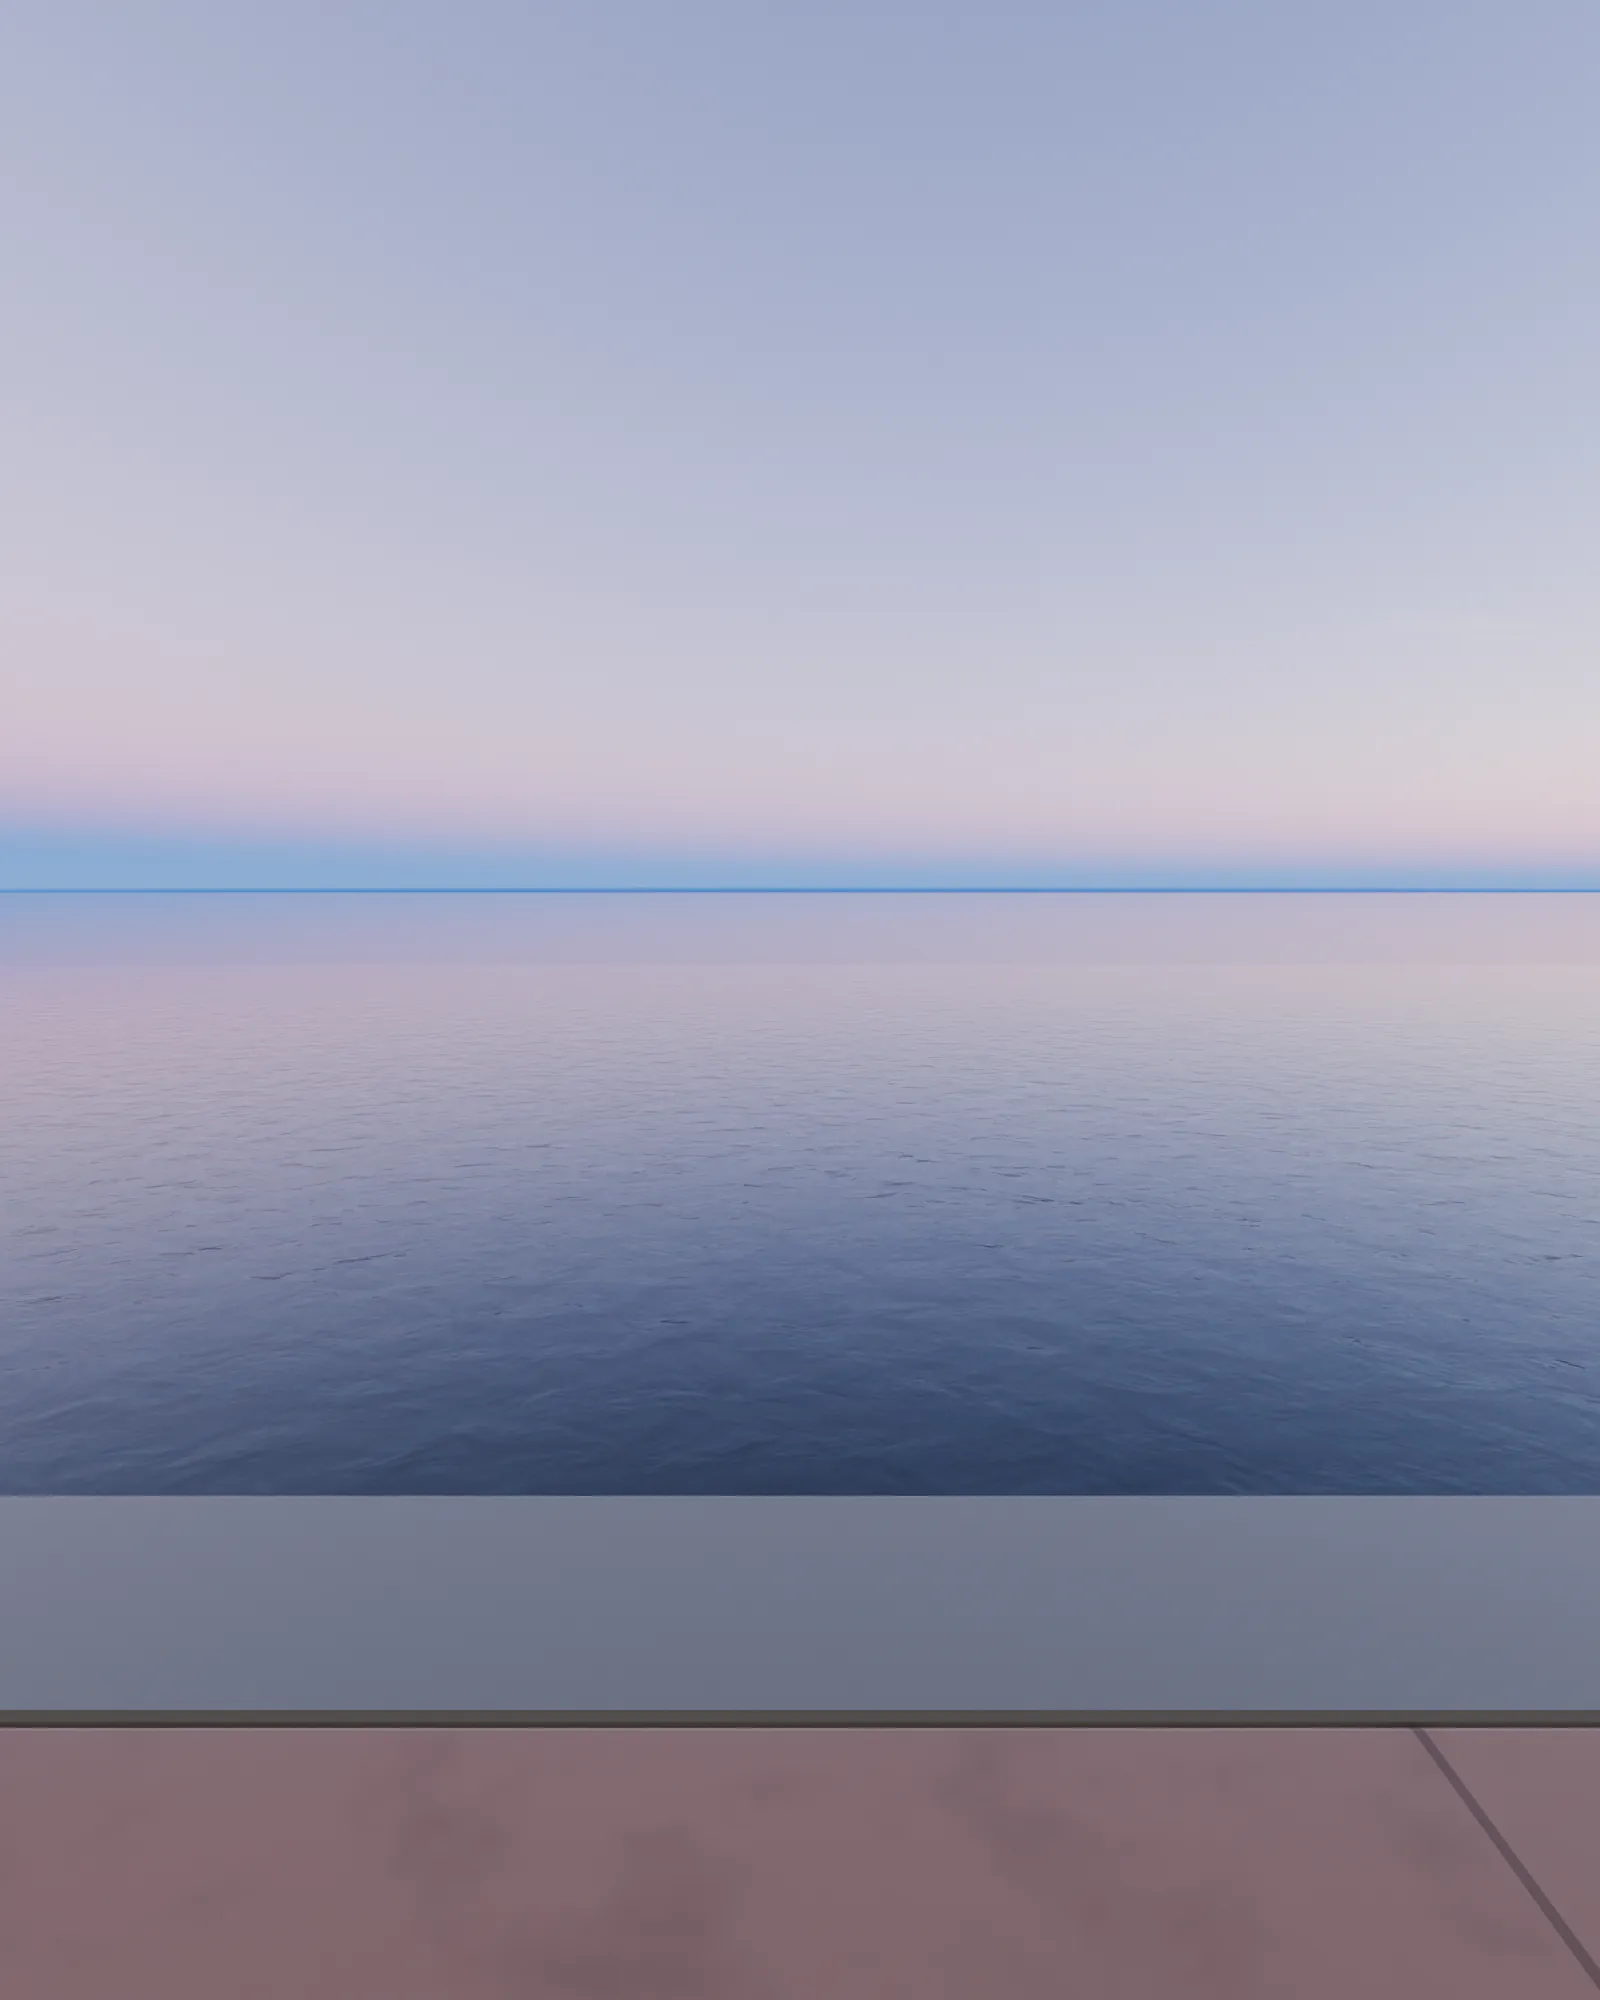
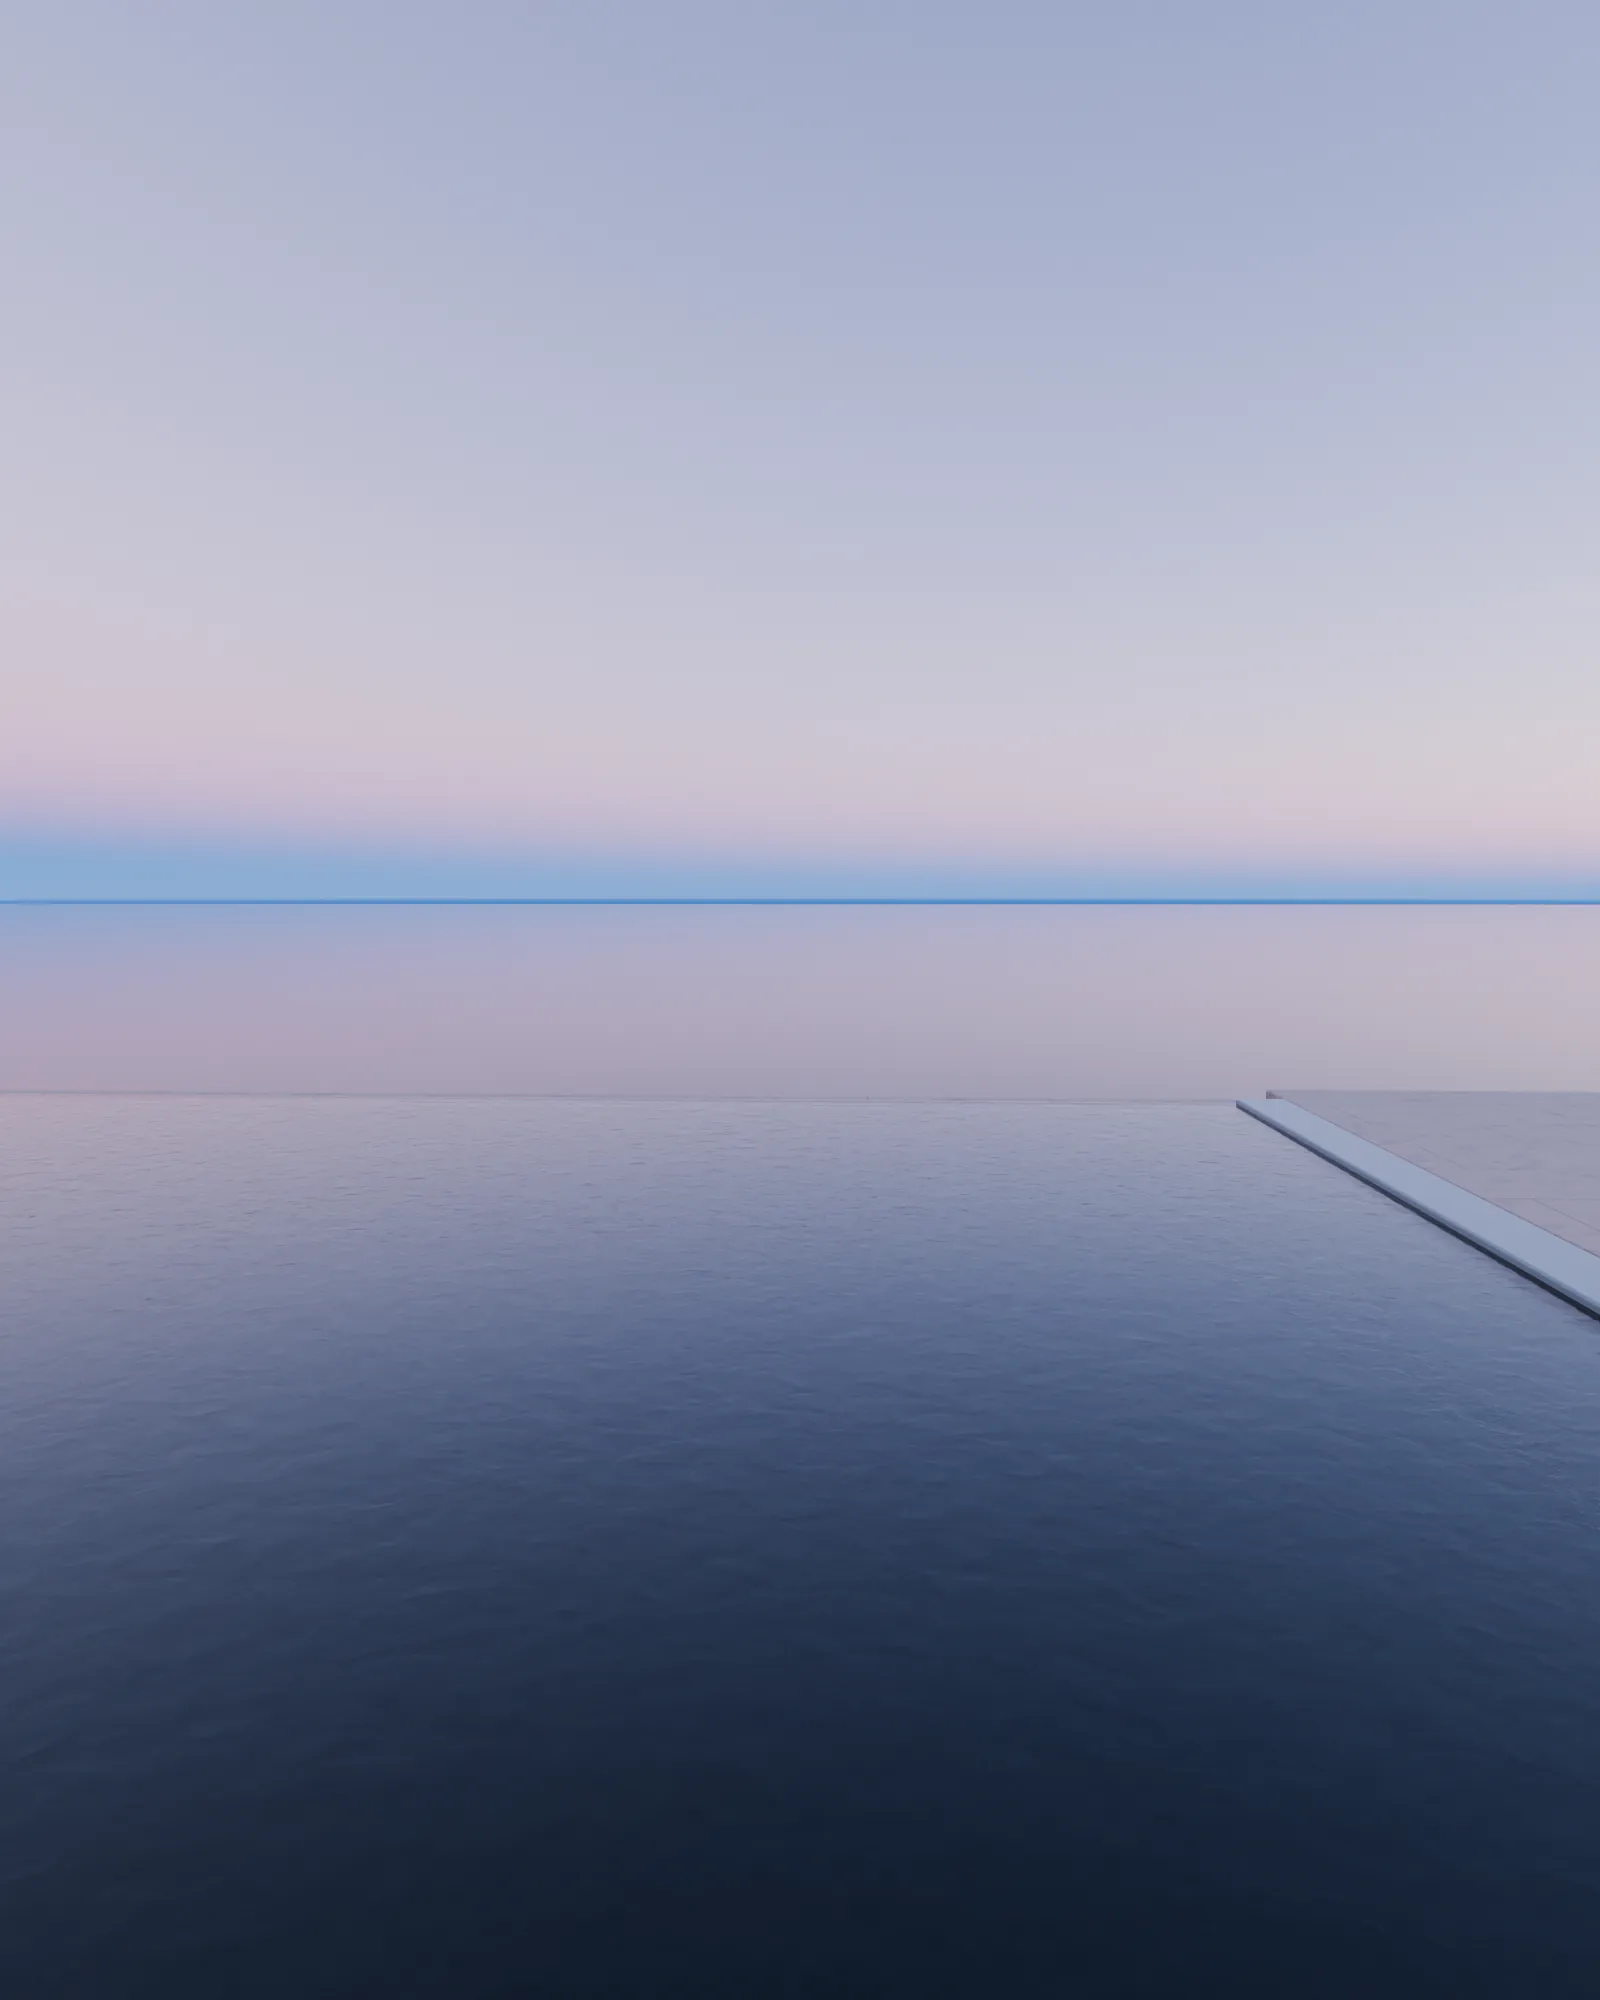
Oriel: full rendered image set, hub entry and final polish
Adds the remaining Blender renders (Ibiza, Kyoto, Liwa, New York, Lucerne,
light studies, re-shot infinity pool), publishes the site on the showcase
hub with a cover, splits long residence titles by word, and documents
the shortlist.

Claude-Session: https://claude.ai/code/session_01Ks7ycVou8rUVqUq1n3JZdT

diff --git a/sites/oriel-estates/assets/js/residence.js b/sites/oriel-estates/assets/js/residence.js
@@ -91,7 +91,7 @@ function render() {
       <div class="r-hero__content">
         <div>
           <p class="r-hero__loc"><span class="chip ${status}"><i></i>${r.status}</span><span>${r.city}, ${r.country}</span></p>
-          <h1 class="display r-hero__title" data-split="manual">${r.name}</h1>
+          <h1 class="display r-hero__title${r.name.length > 13 ? " is-long" : ""}" data-split="manual">${r.name}</h1>
         </div>
         <div class="r-hero__side" data-hero-side>
           <span class="eyebrow">${price ? "Guide price" : "Offered privately"}</span>
@@ -249,7 +249,7 @@ function hero() {
   const title = $(".r-hero__title");
   title.classList.add("is-split");
   if (reduced) return;
-  const split = SplitText.create(title, { type: "lines, chars", mask: "lines" });
+  const split = SplitText.create(title, { type: "lines, words, chars", mask: "lines" });
   gsap.timeline({ delay: 0.15 })
     .from(".r-hero__img img", { scale: 1.2, duration: 2.4, ease: "oriel" }, 0)
     .from(split.chars, { yPercent: 115, duration: 1.3, stagger: 0.03 }, 0.2)

diff --git a/sites/oriel-estates/assets/css/main.css b/sites/oriel-estates/assets/css/main.css
@@ -656,6 +656,7 @@ a:hover .roll > span + span, button:hover .roll > span + span, a:focus-visible .
 .r-hero__img::after { content: ""; position: absolute; inset: 0; background: linear-gradient(to top, rgba(13, 12, 11, 0.75) 0%, rgba(13, 12, 11, 0.1) 45%, rgba(13, 12, 11, 0.25) 100%); }
 .r-hero__content { position: absolute; left: var(--gutter); right: var(--gutter); bottom: var(--gutter); display: grid; grid-template-columns: 1fr auto; align-items: end; gap: 24px; }
 .r-hero h1 { font-size: clamp(2.8rem, 1rem + 8.4vw, 11.5rem); }
+.r-hero h1.is-long { font-size: clamp(2.4rem, 0.6rem + 6vw, 8.4rem); }
 .r-hero__side { display: flex; flex-direction: column; align-items: flex-end; justify-content: flex-end; text-align: right; font-size: var(--fs-sm); }
 .r-hero__price { font-size: var(--fs-xl); font-weight: 300; letter-spacing: -0.02em; display: block; }
 .r-hero__loc { display: flex; gap: 10px; align-items: center; margin-bottom: 18px; font-size: var(--fs-xs); letter-spacing: 0.16em; text-transform: uppercase; }

diff --git a/sites/oriel-estates/assets/js/home.js b/sites/oriel-estates/assets/js/home.js
@@ -58,7 +58,7 @@ function heroIntro(fromLoader) {
   fitTitle();
   title.classList.add("is-split");
   if (reduced) return gsap.timeline();
-  const small = SplitText.create(".hero__title .t-small", { type: "lines, chars", mask: "lines" });
+  const small = SplitText.create(".hero__title .t-small", { type: "lines, words, chars", mask: "lines" });
   const big = SplitText.create(".hero__title .t-big", { type: "lines, chars", mask: "lines" });
   const tl = gsap.timeline({ paused: true });
   tl.from(small.chars, { yPercent: 115, duration: 1.2, stagger: 0.035 }, 0)

diff --git a/sites/oriel-estates/README.md b/sites/oriel-estates/README.md
@@ -14,6 +14,8 @@ A concept website for **Oriel**, a fictional private estate agency that represen
 | `journal.html?id=…` | Three essays |
 | `404.html` | Lost-address page |
 
+A **shortlist** works on every page: save residences from the collection or a residence page, review them in a slide-out drawer, and send one enquiry that arrives pre-filled on the contact form (stored in `localStorage`).
+
 Shared across pages: Lenis smooth scrolling synced to ScrollTrigger, curtain page transitions, custom cursor with contextual labels, magnetic buttons, masked line reveals (SplitText), header that hides on scroll and switches colour per section, velocity skew on imagery, film grain, and a full-screen menu with image previews.
 
 ## Imagery
